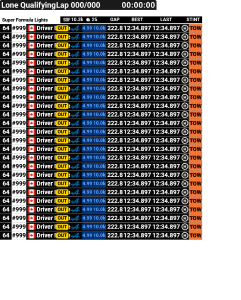
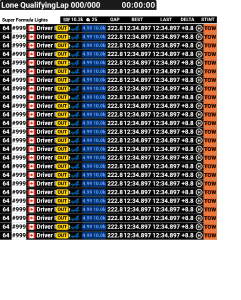
Added Delta column

Changed region(s): [[0.7552, 0.03, 0.9004, 0.81]]

diff --git a/Plugin/SettingsControl.xaml b/Plugin/SettingsControl.xaml
@@ -181,6 +181,13 @@
                                 Last Lap Time
                             </styles:SHToggleCheckbox>
 
+                            <styles:SHToggleCheckbox 
+                                ToolTip="Driver's delta lap time to leader's last lap time" 
+                                HorizontalAlignment="Left" Margin="0,0,4,4"
+                                IsChecked="{Binding Plugin.Modules[StandingsModule].Settings.DeltaVisibleInRace, Mode=TwoWay, UpdateSourceTrigger=PropertyChanged}">
+                                Delta
+                            </styles:SHToggleCheckbox>
+
                         </StackPanel>
 
                         <StackPanel Orientation="Horizontal">
@@ -214,6 +221,13 @@
                                 HorizontalAlignment="Left" Margin="0,0,4,4"
                                 IsChecked="{Binding Plugin.Modules[StandingsModule].Settings.LastVisible, Mode=TwoWay, UpdateSourceTrigger=PropertyChanged}">
                                 Last Lap Time
+                            </styles:SHToggleCheckbox>
+
+                            <styles:SHToggleCheckbox 
+                                ToolTip="Driver's delta lap time to the session best lap time" 
+                                HorizontalAlignment="Left" Margin="0,0,4,4"
+                                IsChecked="{Binding Plugin.Modules[StandingsModule].Settings.DeltaVisible, Mode=TwoWay, UpdateSourceTrigger=PropertyChanged}">
+                                Delta
                             </styles:SHToggleCheckbox>
 
                         </StackPanel>

diff --git a/Plugin/Modules/Standings.cs b/Plugin/Modules/Standings.cs
@@ -46,8 +46,10 @@ namespace benofficial2.Plugin
         public bool GapVisibleInRace { get; set; } = true;
         public bool BestVisibleInRace { get; set; } = true;
         public bool LastVisibleInRace { get; set; } = true;
+        public bool DeltaVisibleInRace { get; set; } = true;
         public bool BestVisible { get; set; } = true;
         public bool LastVisible { get; set; } = true;
+        public bool DeltaVisible { get; set; } = true;
         public bool ShowStintLapInRace { get; set; } = true;
         public int AlternateRowBackgroundColor { get; set; } = 5;
         public bool HighlightPlayerRow { get; set; } = true;
@@ -78,6 +80,7 @@ namespace benofficial2.Plugin
         public int StintLap { get; set; } = 0;
         public int LapsToClassLeader { get; set; } = 0;
         public double GapToClassLeader { get; set; } = 0;
+        public TimeSpan DeltaToClassLeader { get; set; } = TimeSpan.Zero;
         public string TireCompound {  get; set; } = string.Empty;
         public bool TireCompoundVisible { get; set; } = false;
         public TimeSpan BestLapTime { get; set; } = TimeSpan.Zero;
@@ -98,6 +101,7 @@ namespace benofficial2.Plugin
         public int Sof { get; set; } = 0;
         public int DriverCount { get; set; } = 0;
         public TimeSpan BestLapTime { get; set; } = TimeSpan.Zero;
+        public TimeSpan LeaderLastLapTime { get; set; } = TimeSpan.Zero;
 
         public StandingCarClass()
         {
@@ -131,6 +135,7 @@ namespace benofficial2.Plugin
         public bool GapVisible { get; internal set; } = true;
         public bool BestVisible { get; internal set; } = true;
         public bool LastVisible { get; internal set; } = true;
+        public bool DeltaVisible { get; internal set; } = true;
 
         public override int UpdatePriority => 80;
 
@@ -169,6 +174,7 @@ namespace benofficial2.Plugin
             plugin.AttachDelegate(name: $"Standings.GapVisible", valueProvider: () => GapVisible);
             plugin.AttachDelegate(name: $"Standings.BestVisible", valueProvider: () => BestVisible);
             plugin.AttachDelegate(name: $"Standings.LastVisible", valueProvider: () => LastVisible);
+            plugin.AttachDelegate(name: $"Standings.DeltaVisible", valueProvider: () => DeltaVisible);
             plugin.AttachDelegate(name: $"Standings.ShowStintLapInRace", valueProvider: () => Settings.ShowStintLapInRace);
             plugin.AttachDelegate(name: "Standings.AlternateRowBackgroundColor", valueProvider: () => Settings.AlternateRowBackgroundColor);
             plugin.AttachDelegate(name: "Standings.HighlightPlayerRow", valueProvider: () => Settings.HighlightPlayerRow);
@@ -212,6 +218,7 @@ namespace benofficial2.Plugin
                     plugin.AttachDelegate(name: $"Standings.Class{carClassIdx:00}.Row{rowIdx:00}.StintLap", valueProvider: () => row.StintLap);
                     plugin.AttachDelegate(name: $"Standings.Class{carClassIdx:00}.Row{rowIdx:00}.LapsToClassLeader", valueProvider: () => row.LapsToClassLeader);
                     plugin.AttachDelegate(name: $"Standings.Class{carClassIdx:00}.Row{rowIdx:00}.GapToClassLeader", valueProvider: () => row.GapToClassLeader);
+                    plugin.AttachDelegate(name: $"Standings.Class{carClassIdx:00}.Row{rowIdx:00}.DeltaToClassLeader", valueProvider: () => row.DeltaToClassLeader);
                     plugin.AttachDelegate(name: $"Standings.Class{carClassIdx:00}.Row{rowIdx:00}.TireCompound", valueProvider: () => row.TireCompound);
                     plugin.AttachDelegate(name: $"Standings.Class{carClassIdx:00}.Row{rowIdx:00}.TireCompoundVisible", valueProvider: () => row.TireCompoundVisible);
                     plugin.AttachDelegate(name: $"Standings.Class{carClassIdx:00}.Row{rowIdx:00}.BestLapTime", valueProvider: () => row.BestLapTime);
@@ -234,6 +241,7 @@ namespace benofficial2.Plugin
                 GapVisible = Settings.GapVisibleInRace;
                 BestVisible = Settings.BestVisibleInRace;
                 LastVisible = Settings.LastVisibleInRace;
+                DeltaVisible = Settings.DeltaVisibleInRace;
             }
             else
             {
@@ -241,6 +249,7 @@ namespace benofficial2.Plugin
                 GapVisible = false;
                 BestVisible = Settings.BestVisible;
                 LastVisible = Settings.LastVisible;
+                DeltaVisible = Settings.DeltaVisible;
             }
 
             int visibleClassCount = 0;
@@ -269,10 +278,17 @@ namespace benofficial2.Plugin
                     carClass.NameSize = MeasureTextInPixels(carClass.Name);
                     carClass.Color = opponentClass.ClassColor;
                     carClass.TextColor = opponentClass.ClassTextColor;
-                    
-                    
                     carClass.Sof = CalculateSof(opponentsWithDrivers);
                     carClass.DriverCount = opponentsWithDrivers.Count;
+
+                    if (opponentsWithDrivers.Count > 0)
+                    {
+                        carClass.LeaderLastLapTime = opponentsWithDrivers[0].Item2.LastLapTime;
+                    }
+                    else
+                    {
+                        carClass.LeaderLastLapTime = TimeSpan.Zero;
+                    }
 
                     int skipRowCount = 0;
                     int maxRowCount;
@@ -353,6 +369,29 @@ namespace benofficial2.Plugin
                         row.LastLapTime = driver.LastLapTime;
                         row.JokerLapsComplete = driver.JokerLapsComplete;
 
+                        if (_sessionModule.Race)
+                        {
+                            if (row.LastLapTime > TimeSpan.Zero && carClass.LeaderLastLapTime > TimeSpan.Zero)
+                            {
+                                row.DeltaToClassLeader = row.LastLapTime - carClass.LeaderLastLapTime;
+                            }
+                            else
+                            {
+                                row.DeltaToClassLeader = TimeSpan.Zero;
+                            }
+                        }
+                        else
+                        {
+                            if (row.LastLapTime > TimeSpan.Zero && carClass.BestLapTime > TimeSpan.Zero)
+                            {
+                                row.DeltaToClassLeader = row.LastLapTime - carClass.BestLapTime;
+                            }
+                            else
+                            {
+                                row.DeltaToClassLeader = TimeSpan.Zero;
+                            }
+                        }
+
                         // Make sure we have a best lap time for the first lap of a race
                         // iRacing often doesn't provide a valid best lap time for lap 1
                         if (_sessionModule.Race && row.BestLapTime <= TimeSpan.Zero && row.LastLapTime > TimeSpan.Zero)
@@ -400,6 +439,7 @@ namespace benofficial2.Plugin
             carClass.Sof = 0;
             carClass.DriverCount = 0;
             carClass.BestLapTime = TimeSpan.Zero;
+            carClass.LeaderLastLapTime = TimeSpan.Zero;
 
             for (int driverIdx = 0; driverIdx < StandingCarClass.MaxRows; driverIdx++)
             {
@@ -431,6 +471,7 @@ namespace benofficial2.Plugin
             row.StintLap = 0;
             row.LapsToClassLeader = 0;
             row.GapToClassLeader = 0;
+            row.DeltaToClassLeader = TimeSpan.Zero;
             row.TireCompound = string.Empty;
             row.TireCompoundVisible = false;
             row.BestLapTime = TimeSpan.Zero;
